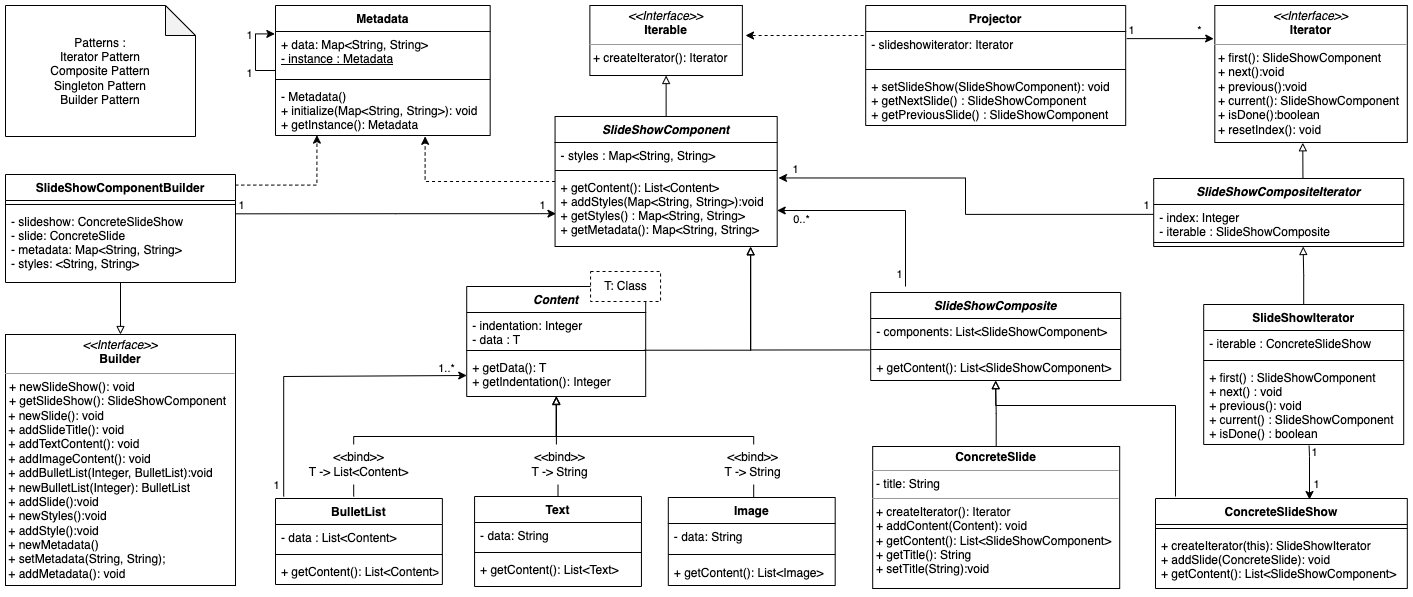
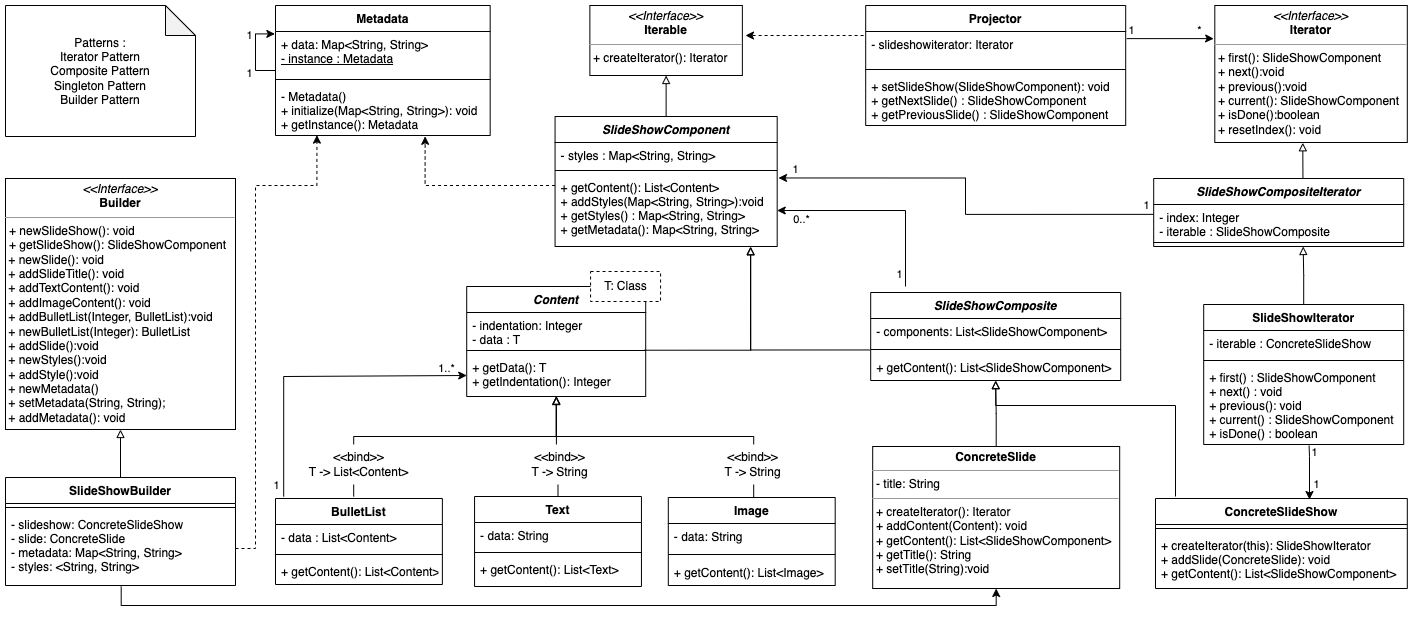
more diagrams

diff --git a/JabberPoint/src/main/jabberpoint/control/XMLSwingConfiguration.java b/JabberPoint/src/main/jabberpoint/control/XMLSwingConfiguration.java
@@ -1,6 +1,6 @@
 package main.jabberpoint.control;
 
-import main.jabberpoint.domain.builder.SlideShowComponentBuilder;
+import main.jabberpoint.domain.builder.SlideShowBuilder;
 import main.jabberpoint.domain_service.BuilderService;
 import main.jabberpoint.infrastructure.Infrastructure;
 import main.jabberpoint.infrastructure.XMLDirectorStrategy;
@@ -32,6 +32,6 @@ public class XMLSwingConfiguration extends ControllerConfigurationFactory
      */
     @Override
     public Infrastructure getInfrastructure() {
-        return super.createInfrastructure(new BuilderService(new SlideShowComponentBuilder()), new XMLDirectorStrategy());
+        return super.createInfrastructure(new BuilderService(new SlideShowBuilder()), new XMLDirectorStrategy());
     }
 }

diff --git a/JabberPoint/src/main/jabberpoint/domain/builder/SlideShowBuilder.java b/JabberPoint/src/main/jabberpoint/domain/builder/SlideShowBuilder.java
@@ -11,7 +11,7 @@ import java.util.Map;
  * Part of Builder Pattern
  * Role: Concrete builder
  */
-public class SlideShowComponentBuilder implements Builder
+public class SlideShowBuilder implements Builder
 {
     private ConcreteSlideShow slideShow;
     private ConcreteSlide slide;
